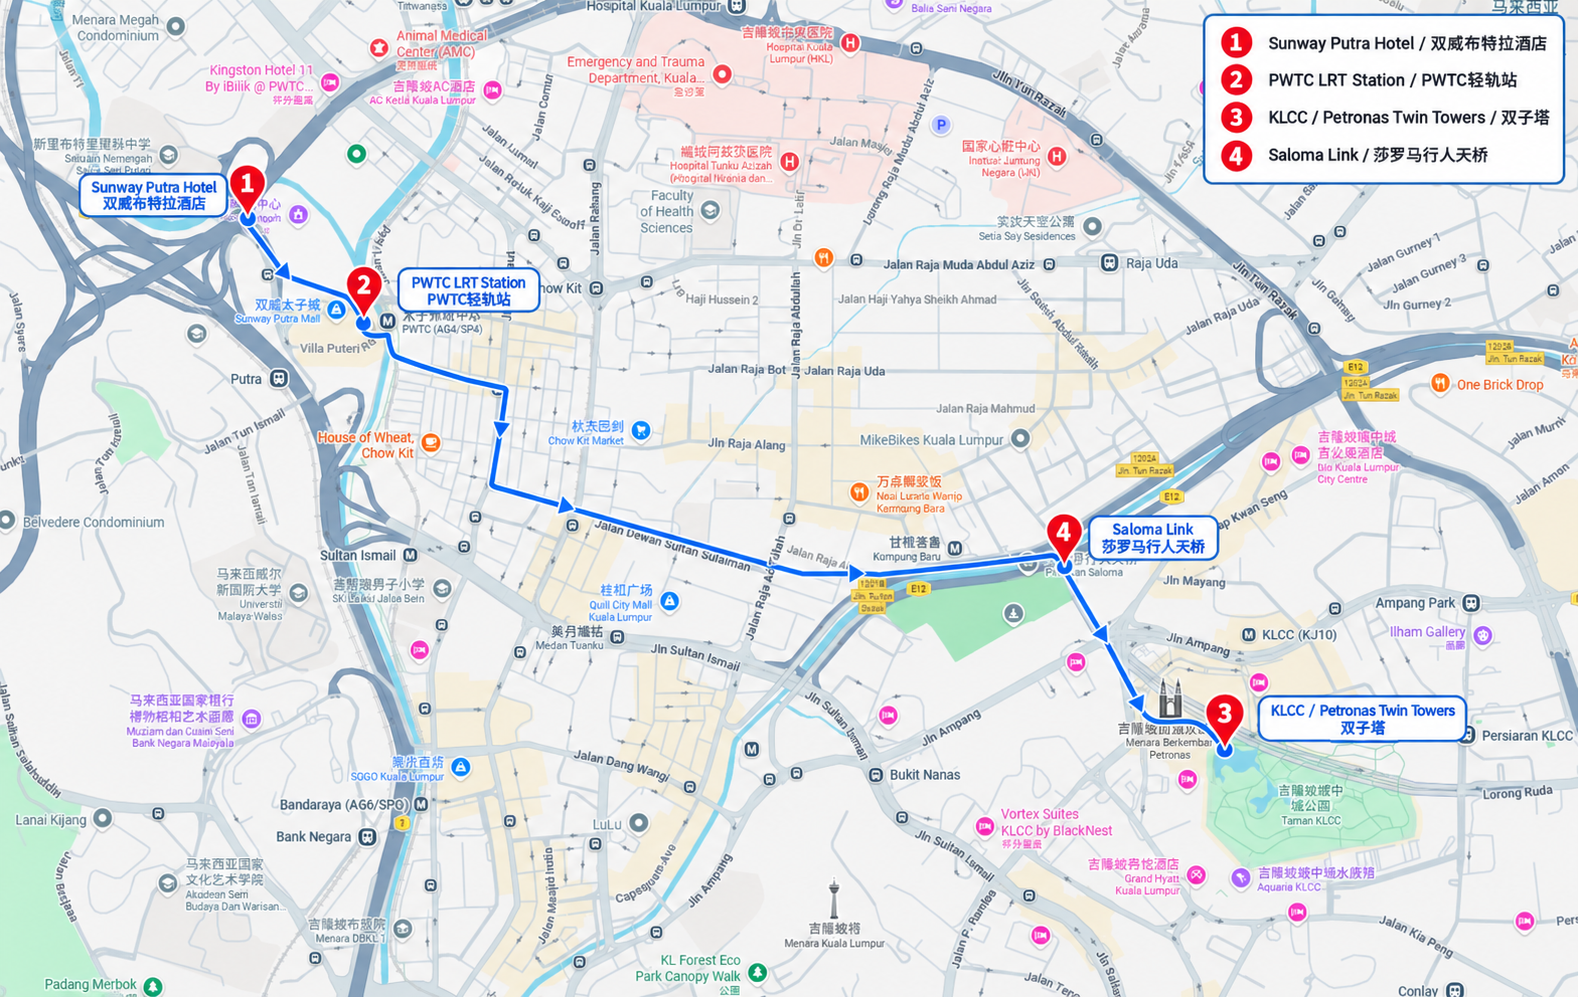
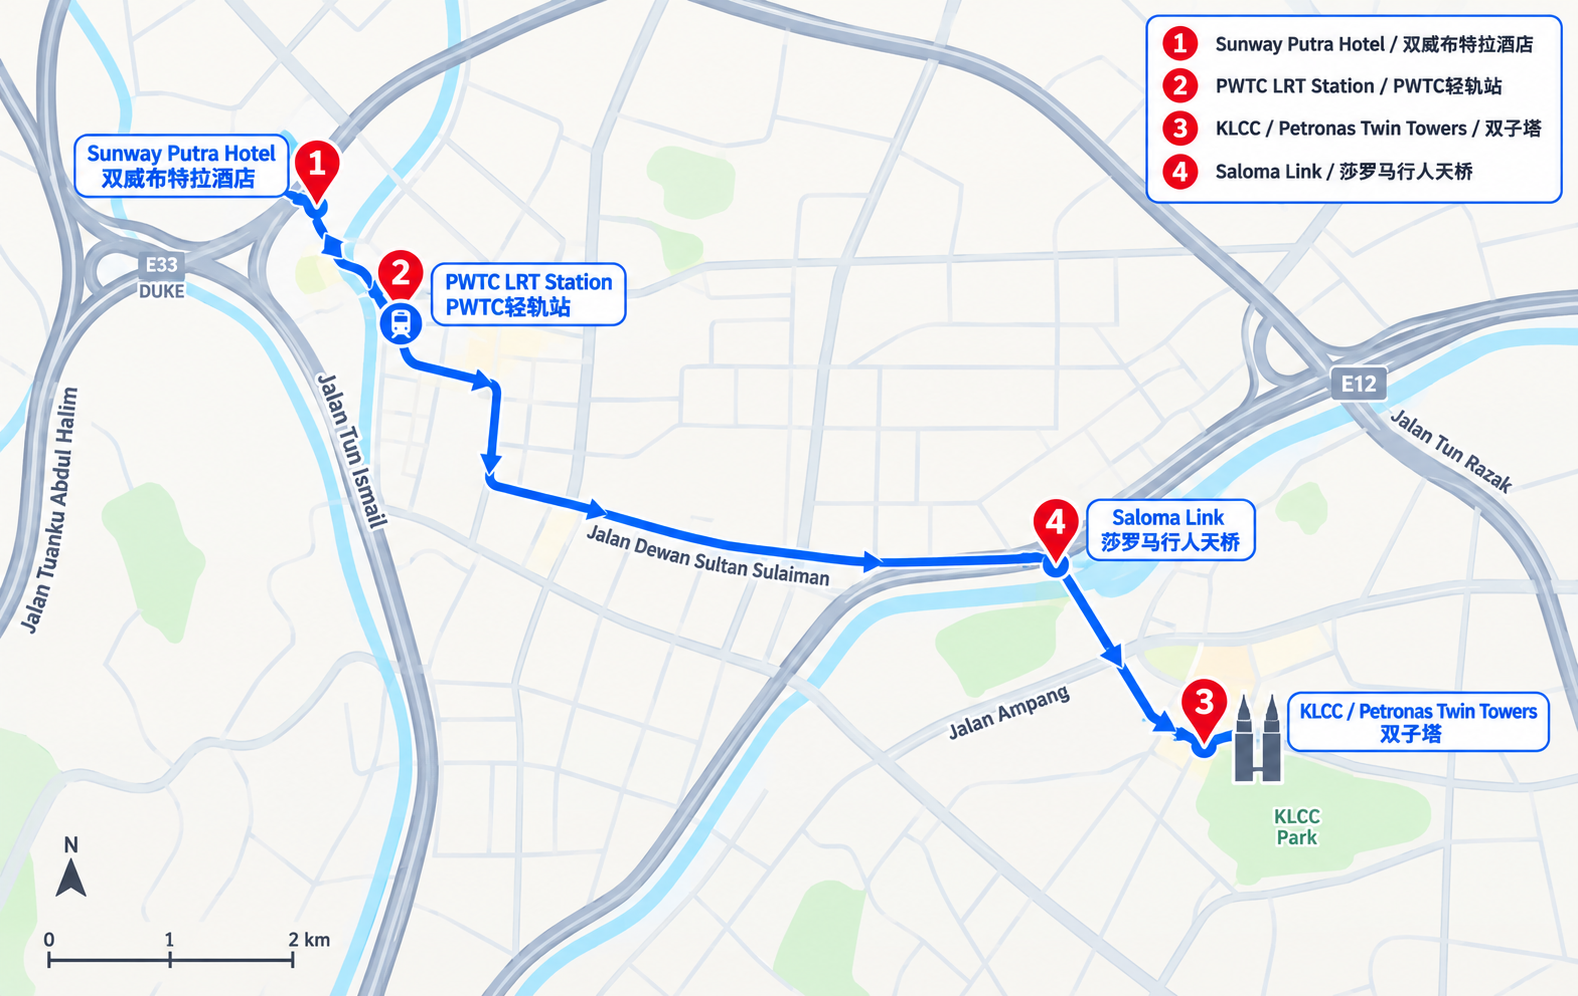
简化 Day 1 路线地图

diff --git a/CHANGELOG.md b/CHANGELOG.md
@@ -183,3 +183,9 @@
 
 - 在 Day 3 路线图约 x=17.6%、y=53.6% 位置增加 Encore Melaka / 又见马六甲标记。
 - 为又见马六甲补充 Google Maps 地点链接。
+
+## 2026-09-20 - v1.6
+
+- 简化 Day 1 静态路线图。
+- 移除无关地表、商户和杂乱标签，仅保留主要道路、路线和关键地点。
+
